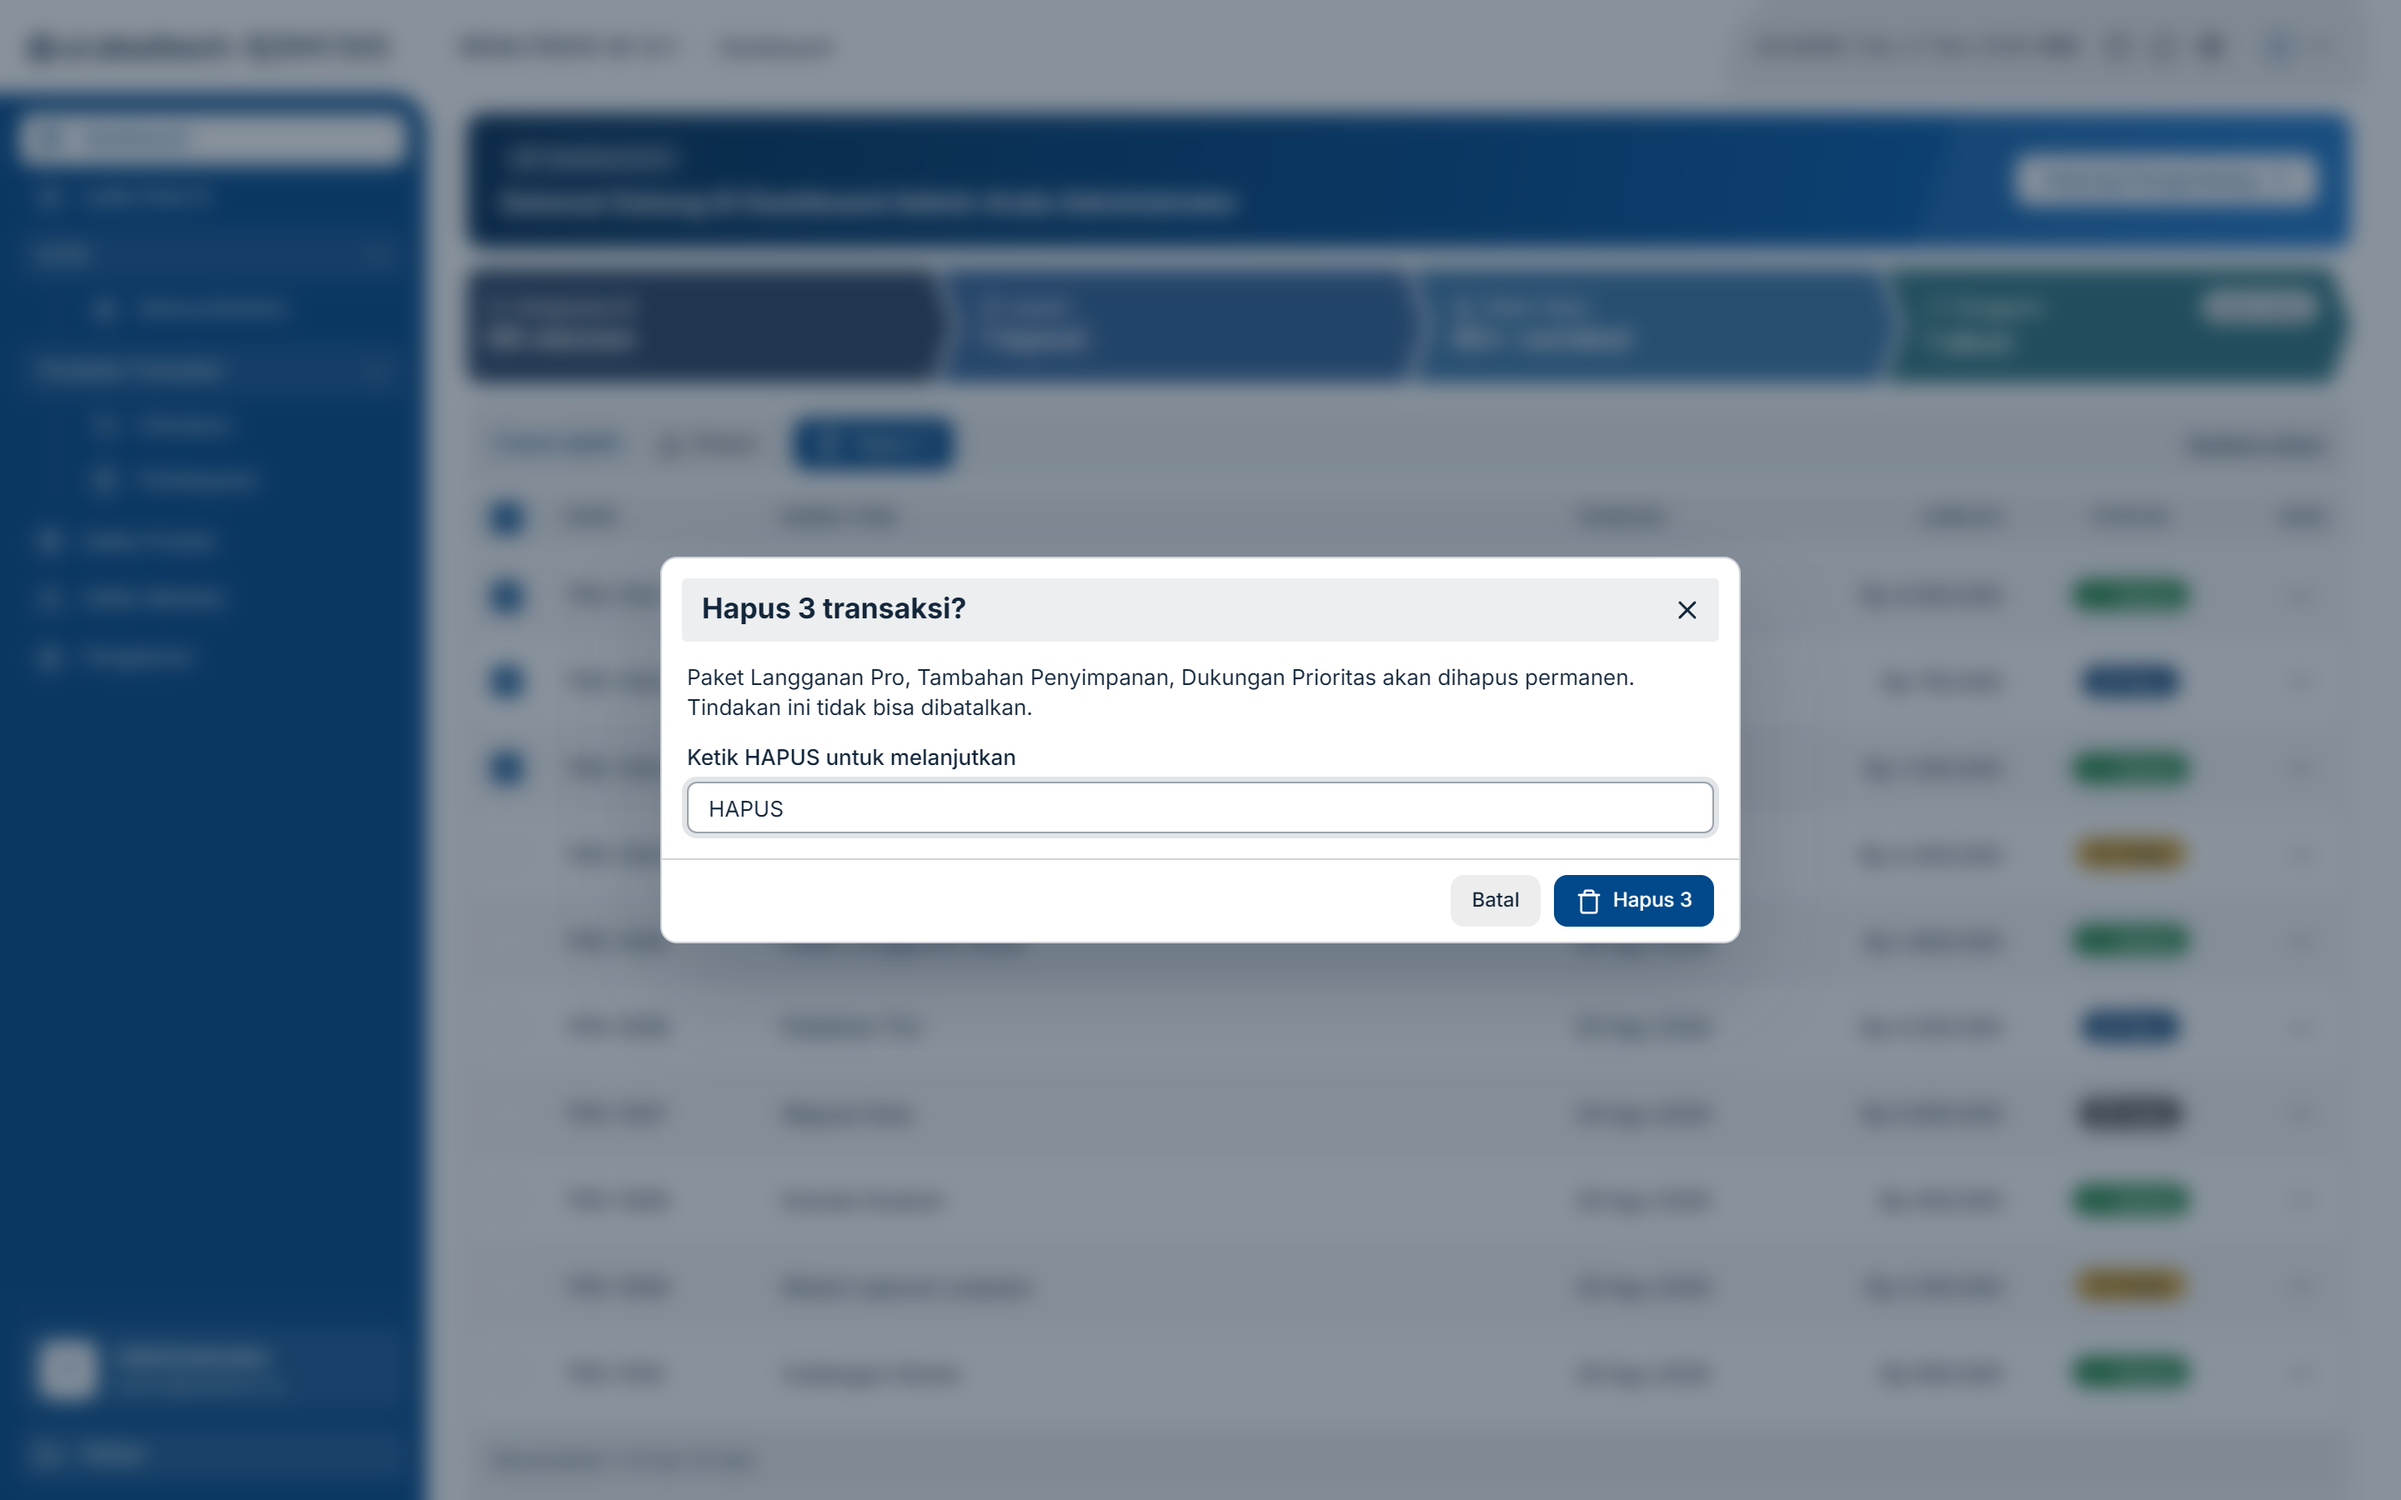
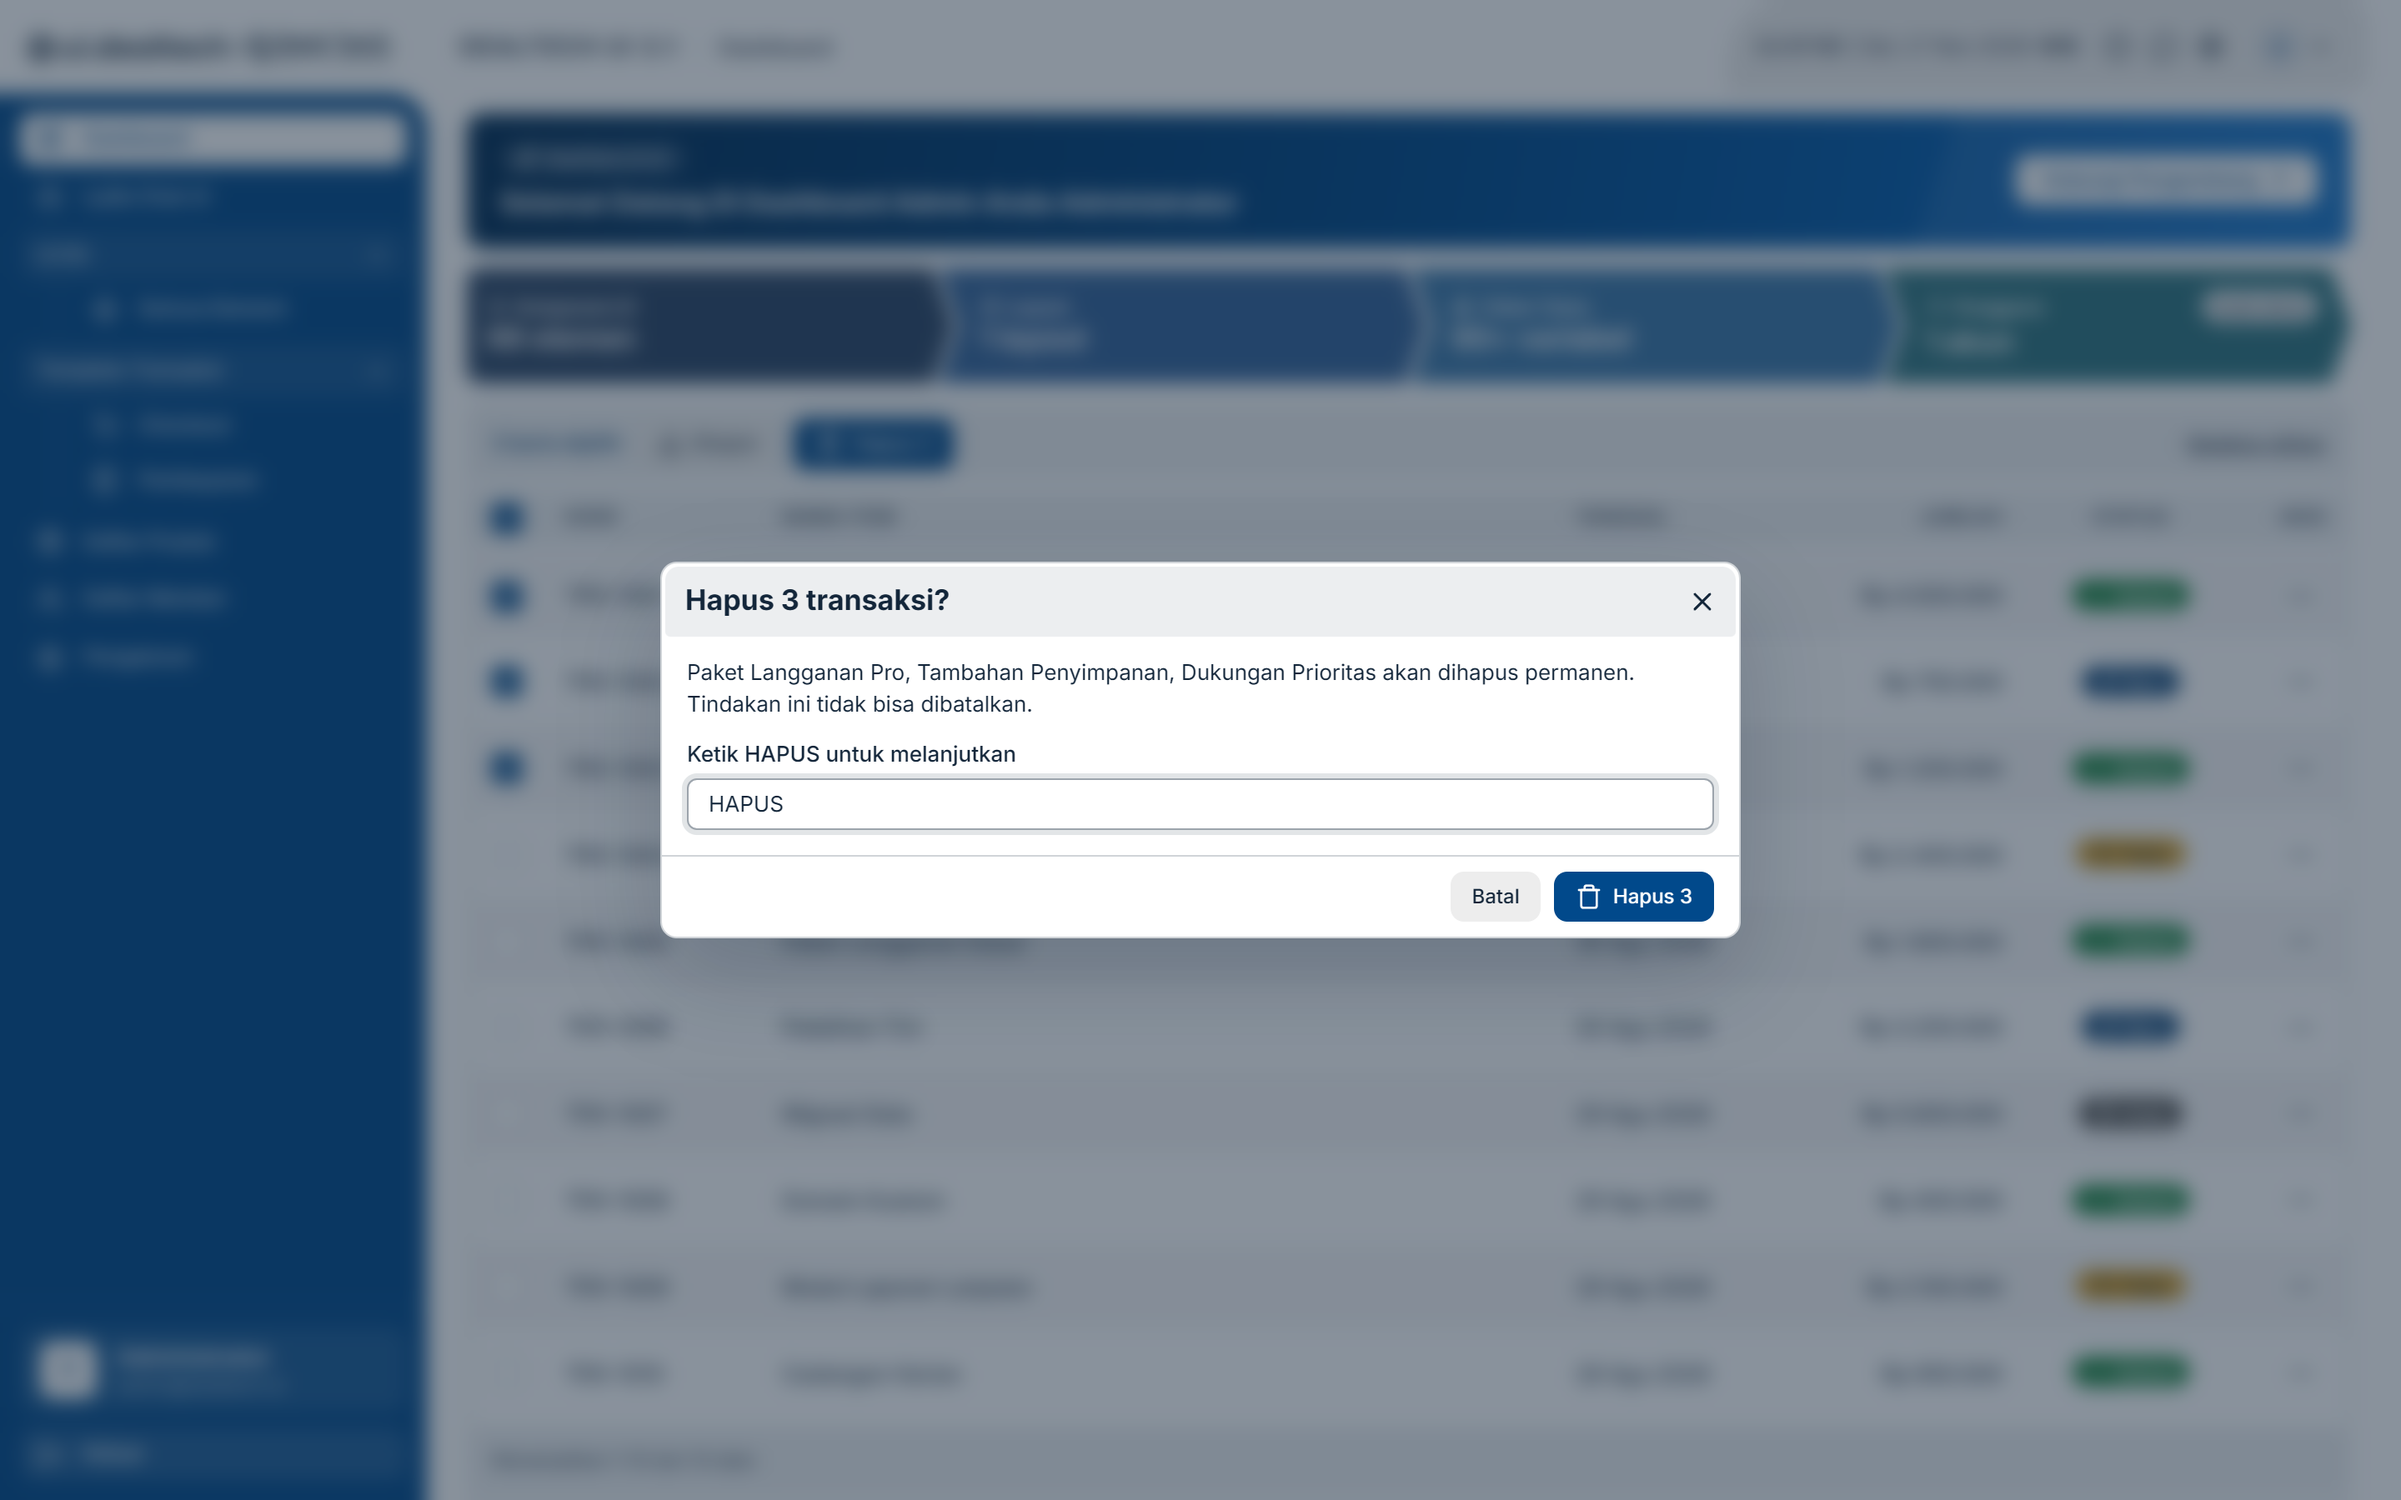
improve section and modal header bars to match table search bar size

Changed region(s): [[0.2812, 0.3733, 0.7188, 0.6533], [0.6875, 0.3733, 0.7188, 0.4044]]

diff --git a/templates/starter-v3.1/src/components/ui/seksi/seksi.css b/templates/starter-v3.1/src/components/ui/seksi/seksi.css
@@ -1,12 +1,12 @@
 .seksi__kepala {
   display: flex;
-  min-height: 38px;
+  min-height: 42.8px;
   align-items: center;
   gap: 10px;
-  /* Bar abu seperti header tabel */
-  margin: 12px 8px 0;
-  padding: 2px 2px 2px 12px;
-  border-radius: 3px;
+  /* Sama dengan bar cari tabel */
+  margin: 2px 2px 0;
+  padding: 6px;
+  border-radius: 6px 6px 3px 3px;
   background: var(--app-fill-strong);
 }
 
@@ -23,8 +23,12 @@
   color: var(--app-text);
 }
 
+.seksi__teks {
+  padding-left: 6px;
+}
+
 .seksi__aksi > a {
-  padding-right: 10px;
+  padding-right: 6px;
 }
 
 .seksi__aksi {

diff --git a/templates/starter-v3.1/src/components/ui/modal/modal.css b/templates/starter-v3.1/src/components/ui/modal/modal.css
@@ -40,10 +40,11 @@
   justify-content: space-between;
   gap: 12px;
   /* Bar abu seperti header tabel */
-  min-height: 38px;
-  margin: 12px 12px 0;
-  padding: 2px 5px 2px 12px;
-  border-radius: 3px;
+  min-height: 42.8px;
+  /* Sama dengan bar cari tabel */
+  margin: 2px 2px 0;
+  padding: 6px 6px 6px 12px;
+  border-radius: 8px 8px 3px 3px;
   background: var(--app-fill-strong);
 }
 

diff --git a/CHANGELOG.md b/CHANGELOG.md
@@ -12,7 +12,7 @@ Starter baru di `templates/starter-v3.1`, dipasang lewat `dealtech-ui-v3.1` atau
 - Header tabel jadi bar abu terpisah setinggi 38px, sudut 3px (`border-collapse: separate` + border bawah transparan + `background-clip: padding-box`), tanpa garis bawah.
 - Toolbar tabel dan bar aksi massal jadi bar abu yang sama tingginya (42,8px), menempel 2px dari tepi kartu dengan sudut atas sejajar radius kartu. Bar massal menggantikan posisi toolbar, jadi tabel tidak bergeser saat baris dipilih.
 - Jarak tabel diseragamkan lewat `--tablelist-jarak`: tepi baris dan header sejajar bar cari, padding sel dua kali padding bar, checkbox tepat di tengah.
-- Kepala `Modal` jadi bar abu seperti header tabel; Esc menutup dropdown yang terbuka dulu, baru modalnya.
+- Kepala `Modal` dan `Seksi` jadi bar abu setinggi bar cari tabel (42,8px, 2px dari tepi, sudut atas sejajar radius kartu); Esc menutup dropdown yang terbuka dulu, baru modalnya.
 - Isian setinggi tombol dan butir menu sidebar (`--app-control-h` = 30,8px); isian galat cukup berubah warna border.
 - Kartu statistik berbentuk segmen chevron yang saling mengunci, warna mengikuti kolom (`--app-stat-1` s.d. `--app-stat-5`), paling banyak lima per baris, plus prop `memuat`.
 - `TabButton` dan `SearchInput` punya gaya `pil`; `PageTitle` meratakan tombol ke bawah judul; animasi `TombolTuang` dua kali lebih cepat dan bisa difokuskan dari luar.
